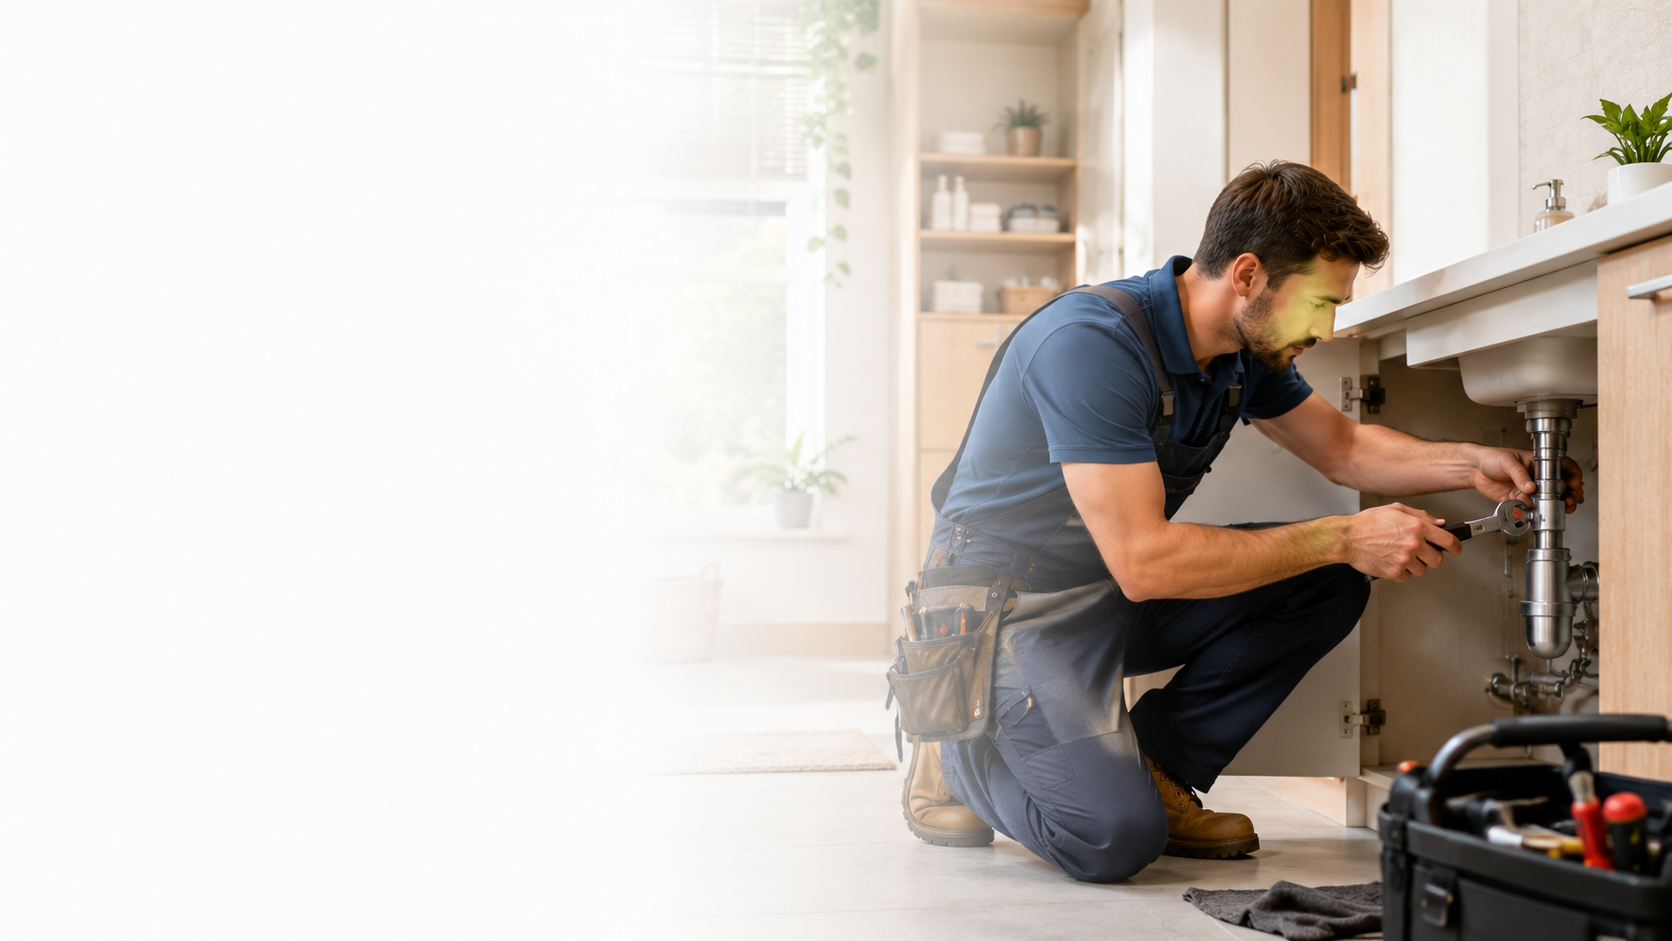
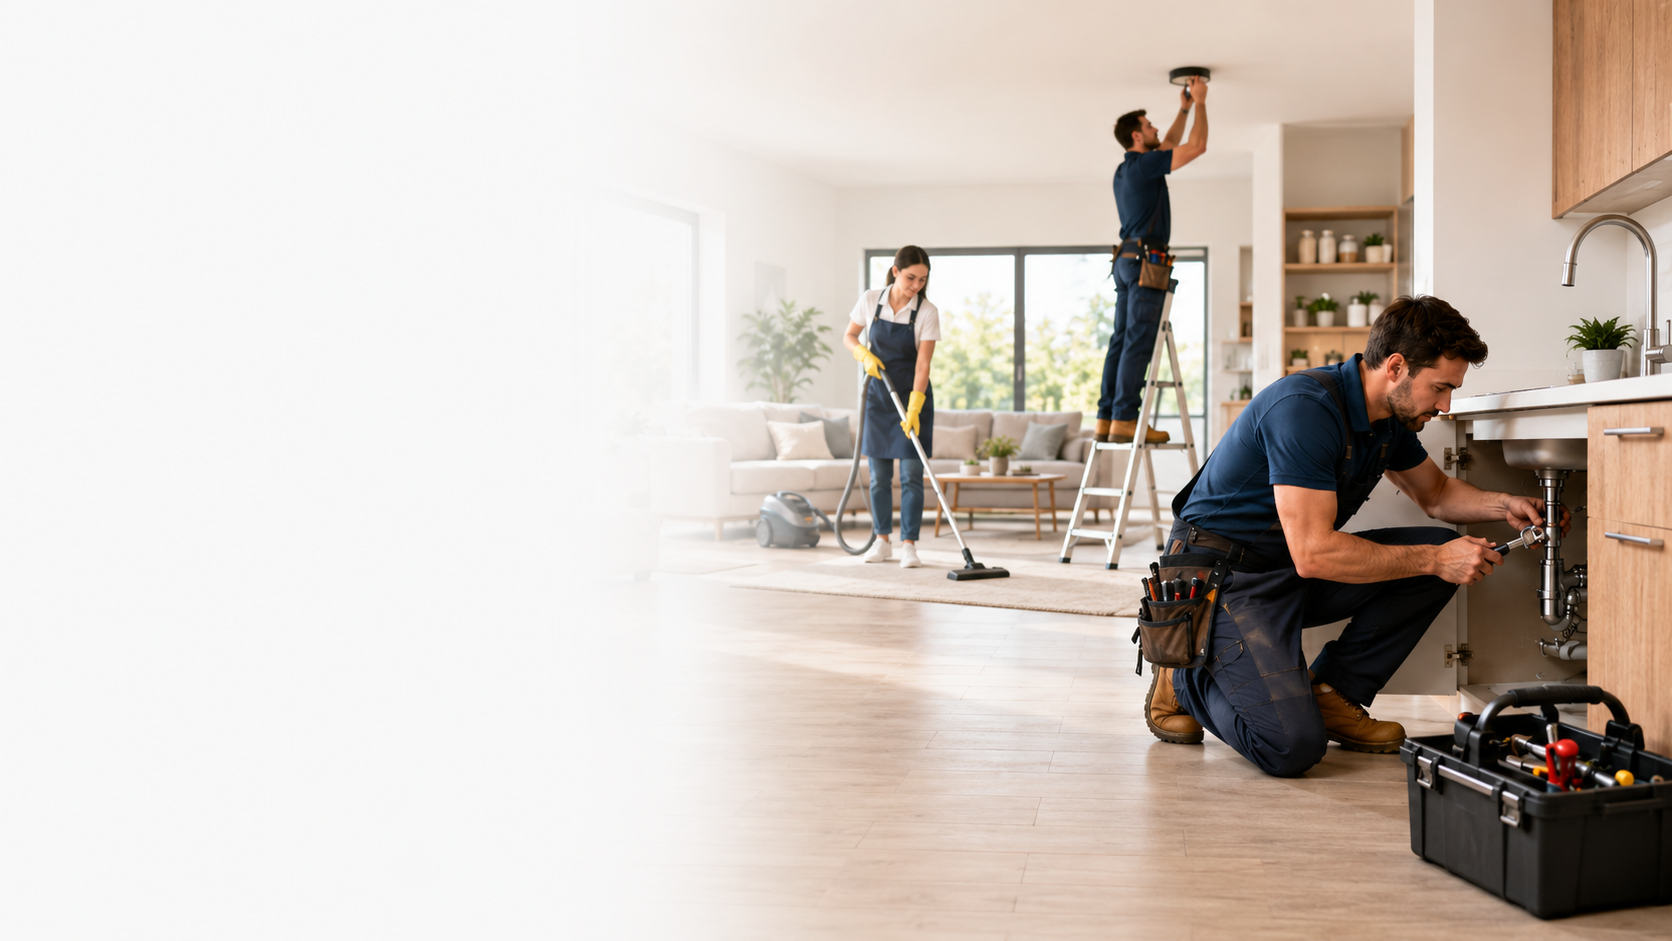
Update services category assets

diff --git a/src/lib/category-store.ts b/src/lib/category-store.ts
@@ -91,6 +91,28 @@ function mapPublicCategoryRows(rows: CategoryRow[]): Category[] {
     }));
 }
 
+function withRequiredFallbackCategories(categories: Category[]) {
+  const categoriesBySlug = new Map(categories.map((category) => [category.slug, category]));
+  const requiredSlugs = ["menyayu-ili-otdam-darom"];
+
+  for (const slug of requiredSlugs) {
+    const fallback = fallbackCategories.find((category) => category.slug === slug);
+
+    if (fallback && !categoriesBySlug.has(slug)) {
+      categoriesBySlug.set(slug, fallback);
+    }
+  }
+
+  const orderedCategories = fallbackCategories
+    .map((fallback) => categoriesBySlug.get(fallback.slug))
+    .filter((category): category is Category => Boolean(category));
+
+  const fallbackSlugs = new Set(fallbackCategories.map((category) => category.slug));
+  const extraCategories = categories.filter((category) => !fallbackSlugs.has(category.slug));
+
+  return [...orderedCategories, ...extraCategories];
+}
+
 export async function listAdminCategories() {
   if (!isSupabaseRestConfigured()) {
     throw new Error("Supabase env is not configured");
@@ -111,7 +133,7 @@ export async function getPublicCategories(): Promise<Category[]> {
     const categories = mapPublicCategoryRows(rows);
 
     if (categories.length || !shouldShowFallbackContent()) {
-      return categories;
+      return withRequiredFallbackCategories(categories);
     }
   } catch (error) {
     if (isProductionRuntime()) {
